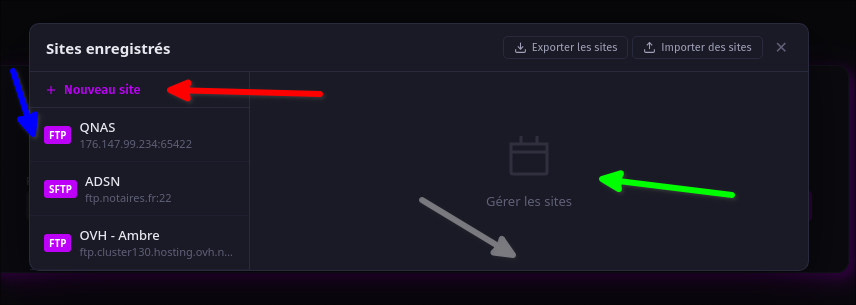
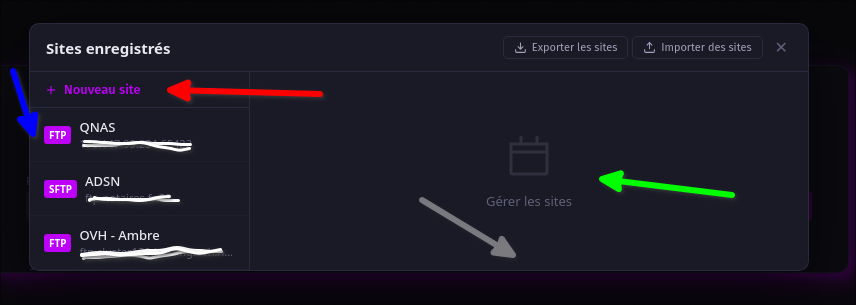
update v1.7.6 preview b

Changed region(s): [[0.0911, 0.7967, 0.2734, 0.8557], [0.0911, 0.4426, 0.243, 0.5016], [0.0911, 0.6197, 0.2126, 0.6787]]

diff --git a/README.md b/README.md
@@ -19,7 +19,8 @@
 - **Transfer queue** - with 3 tabs: pending, failed, and successful transfers; cancel in-progress transfers
 - **Multi-file operations** - select multiple files with Ctrl+click, Shift+click, or rubber-band drag; transfer or delete the whole selection at once
 - **Multi-connection tabs** - open several servers simultaneously; browser-style tabs appear between the toolbar and file panels; configurable limit (1–5) in settings
-- **Site manager** - save, edit and quickly reconnect to your favorite servers; add notes to each site; export/import sites as JSON or encrypted `.gfe`
+- **Site manager** - save, edit and quickly reconnect to your favorite servers; add notes to each site; selective export (choose which sites to include); export/import as JSON or encrypted `.gfe`
+- **Native Linux packages** - available as `.deb` (Debian/Ubuntu), `.rpm` (Fedora/RHEL), and on the AUR (`glideftp-bin`) for Arch Linux; automatic releases via GitHub Actions on each version tag
 - **Secure password storage** - passwords are stored in the OS keyring (gnome-keyring/kwallet on Linux, Windows Credential Manager on Windows), never in plain text on disk
 - **Ask-password auth** - password is never saved; prompted at connect time
 - **SFTP auto-coupling** - selecting SFTP automatically sets authentication to Interactive (or SSH Key) and vice versa
@@ -51,6 +52,9 @@
 | `GlideFTP-Linux-vX.Y.Z.tar.gz` / `.tar` | Linux binary | Requires `libwebkit2gtk-4.1` - see below |
 | `GlideFTP-Linux-Debian-AppImage-vX.Y.Z.tar.gz` / `.tar` | Linux AppImage - **Debian/Ubuntu** | **Recommended** - self-contained, Ubuntu 22.04+ / Debian 12+ / Arch |
 | `GlideFTP-Linux-Arch-AppImage-vX.Y.Z.tar.gz` / `.tar` | Linux AppImage - **Arch** | For Arch / modern Fedora |
+| `GlideFTP-Linux-vX.Y.Z.deb` | Debian / Ubuntu | `sudo apt install ./GlideFTP-Linux-vX.Y.Z.deb` |
+| `GlideFTP-Linux-vX.Y.Z.rpm` | Fedora / RHEL | `sudo dnf install GlideFTP-Linux-vX.Y.Z.rpm` |
+| AUR: `glideftp-bin` | Arch Linux | `yay -S glideftp-bin` |
 
 #### Linux - pre-built binary
 
@@ -159,15 +163,18 @@ cd GlideFTP
 **Using the build script (recommended):**
 
 ```bash
-./make.sh                  # all: Linux binary + Windows exe + Arch AppImage + Debian AppImage
-./make.sh linux            # Linux binary only    → build/bin/linux/GlideFTP
-./make.sh windows          # Windows exe only     → build/bin/windows/GlideFTP.exe
-./make.sh appimage-arch    # Arch AppImage        → build/bin/linux/GlideFTP-Arch-x86_64.AppImage
-./make.sh appimage-debian  # Debian/Ubuntu AppImage → build/bin/linux/GlideFTP-Debian-x86_64.AppImage
+./make.sh                    # all: Linux binary + Windows exe + AppImages + .deb + .rpm
+./make.sh linux              # Linux binary only    → build/bin/linux/GlideFTP
+./make.sh windows            # Windows exe only     → build/bin/windows/GlideFTP.exe
+./make.sh appimage-arch      # Arch AppImage        → build/bin/linux/GlideFTP-Arch-x86_64.AppImage
+./make.sh appimage-debian    # Debian/Ubuntu AppImage → build/bin/linux/GlideFTP-Debian-x86_64.AppImage
+./make.sh deb 1.7.6          # .deb package         → build/bin/linux/GlideFTP-Linux-v1.7.6.deb
+./make.sh rpm 1.7.6          # .rpm package         → build/bin/linux/GlideFTP-Linux-v1.7.6.rpm
+./make.sh -h                 # show all targets and options
 ```
 
 > `appimage` requires `curl`/`wget` (downloads `linuxdeploy` on first run, cached in `tools/`) and `imagemagick`.  
-> `appimage-debian` requires **Docker** or **Podman** - builds inside an Ubuntu 22.04 container on first run (~10 min).
+> `appimage-debian`, `deb`, and `rpm` require **Docker** or **Podman**.
 
 **Manual commands:**
 
@@ -228,7 +235,8 @@ Releases are available [here](https://github.com/Quirky1869/GlideFTP/releases)
 - **File de transfert** - avec 3 onglets : en attente, échoués et réussis ; annulation des transferts en cours
 - **Opérations multi-fichiers** - sélection multiple avec Ctrl+clic, Shift+clic ou sélection à la souris ; transfert ou suppression de toute la sélection en une fois
 - **Onglets multi-connexion** - ouvrez plusieurs serveurs simultanément ; des onglets style navigateur apparaissent entre la barre d'outils et les panneaux de fichiers ; limite configurable (1 à 5) dans les paramètres
-- **Gestionnaire de sites** - enregistrez, modifiez et reconnectez-vous rapidement à vos serveurs favoris ; ajoutez des notes à chaque site ; exportez/importez les sites en JSON ou en `.gfe` chiffré
+- **Gestionnaire de sites** - enregistrez, modifiez et reconnectez-vous rapidement à vos serveurs favoris ; ajoutez des notes à chaque site ; export sélectif (choisissez quels sites inclure) ; exportez/importez en JSON ou en `.gfe` chiffré
+- **Paquets Linux natifs** - disponible en `.deb` (Debian/Ubuntu), `.rpm` (Fedora/RHEL), et sur l'AUR (`glideftp-bin`) pour Arch Linux ; releases automatisées via GitHub Actions à chaque tag de version
 - **Stockage sécurisé des mots de passe** - les mots de passe sont stockés dans le keyring système (gnome-keyring/kwallet sur Linux, Gestionnaire de mots de passe Windows), jamais en clair sur le disque
 - **Auth demande de mot de passe** - le mot de passe n'est jamais enregistré ; saisi au moment de la connexion
 - **Couplage automatique SFTP** - sélectionner SFTP active automatiquement l'authentification Interactive (ou Clé SSH) et inversement
@@ -260,6 +268,9 @@ Releases are available [here](https://github.com/Quirky1869/GlideFTP/releases)
 | `GlideFTP-Linux-vX.Y.Z.tar.gz` / `.tar` | Binaire Linux | Nécessite `libwebkit2gtk-4.1` - voir ci-dessous |
 | `GlideFTP-Linux-Debian-AppImage-vX.Y.Z.tar.gz` / `.tar` | AppImage Linux - **Debian/Ubuntu** | **Recommandé** - autonome, Ubuntu 22.04+ / Debian 12+ / Arch |
 | `GlideFTP-Linux-Arch-AppImage-vX.Y.Z.tar.gz` / `.tar` | AppImage Linux - **Arch** | Pour Arch / Fedora récente |
+| `GlideFTP-Linux-vX.Y.Z.deb` | Debian / Ubuntu | `sudo apt install ./GlideFTP-Linux-vX.Y.Z.deb` |
+| `GlideFTP-Linux-vX.Y.Z.rpm` | Fedora / RHEL | `sudo dnf install GlideFTP-Linux-vX.Y.Z.rpm` |
+| AUR : `glideftp-bin` | Arch Linux | `yay -S glideftp-bin` |
 
 #### Linux - binaire pré-compilé
 
@@ -365,18 +376,21 @@ git clone https://github.com/Quirky1869/GlideFTP.git
 cd GlideFTP
 ```
 
-**Via le script de build (recommandé) :**  
+**Via le script de build (recommandé) :**
 
 ```bash
-./make.sh                  # tout : binaire Linux + exe Windows + AppImage Arch + AppImage Debian
-./make.sh linux            # Linux seulement       → build/bin/linux/GlideFTP
-./make.sh windows          # Windows seulement     → build/bin/windows/GlideFTP.exe
-./make.sh appimage-arch    # AppImage Arch         → build/bin/linux/GlideFTP-Arch-x86_64.AppImage
-./make.sh appimage-debian  # AppImage Debian/Ubuntu → build/bin/linux/GlideFTP-Debian-x86_64.AppImage
+./make.sh                    # tout : binaire Linux + exe Windows + AppImages + .deb + .rpm
+./make.sh linux              # Linux seulement       → build/bin/linux/GlideFTP
+./make.sh windows            # Windows seulement     → build/bin/windows/GlideFTP.exe
+./make.sh appimage-arch      # AppImage Arch         → build/bin/linux/GlideFTP-Arch-x86_64.AppImage
+./make.sh appimage-debian    # AppImage Debian/Ubuntu → build/bin/linux/GlideFTP-Debian-x86_64.AppImage
+./make.sh deb 1.7.6          # paquet .deb           → build/bin/linux/GlideFTP-Linux-v1.7.6.deb
+./make.sh rpm 1.7.6          # paquet .rpm           → build/bin/linux/GlideFTP-Linux-v1.7.6.rpm
+./make.sh -h                 # afficher toutes les cibles et options
 ```
 
 > `appimage` nécessite `curl`/`wget` (télécharge `linuxdeploy` au premier run, mis en cache dans `tools/`) et `imagemagick`.  
-> `appimage-debian` nécessite **Docker** ou **Podman** - construit dans un container Ubuntu 22.04 au premier run (~10 min).
+> `appimage-debian`, `deb` et `rpm` nécessitent **Docker** ou **Podman**.
 
 **Commandes manuelles :**  
 
